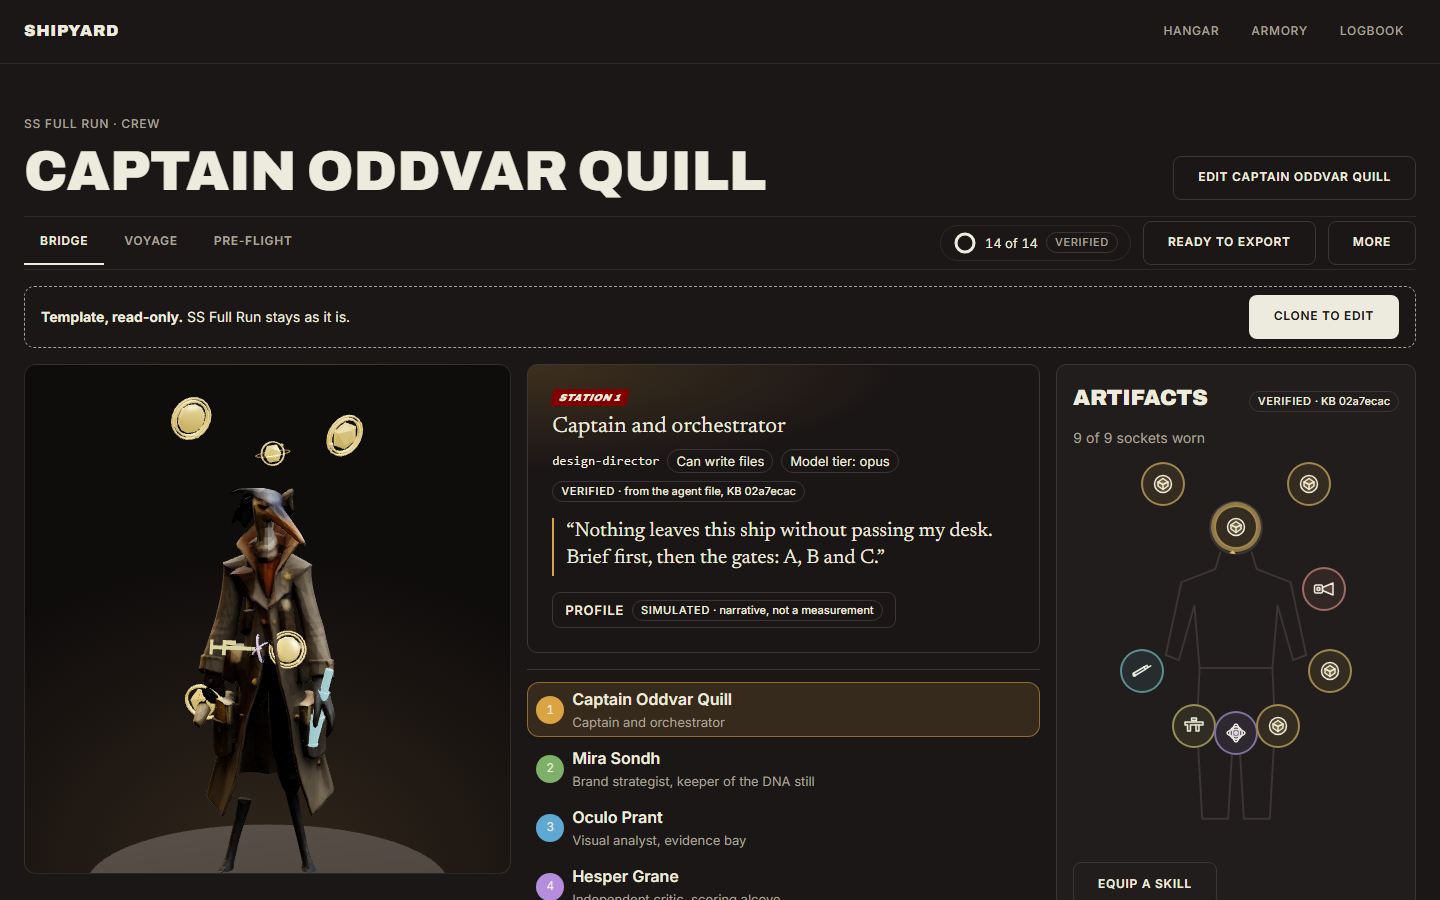
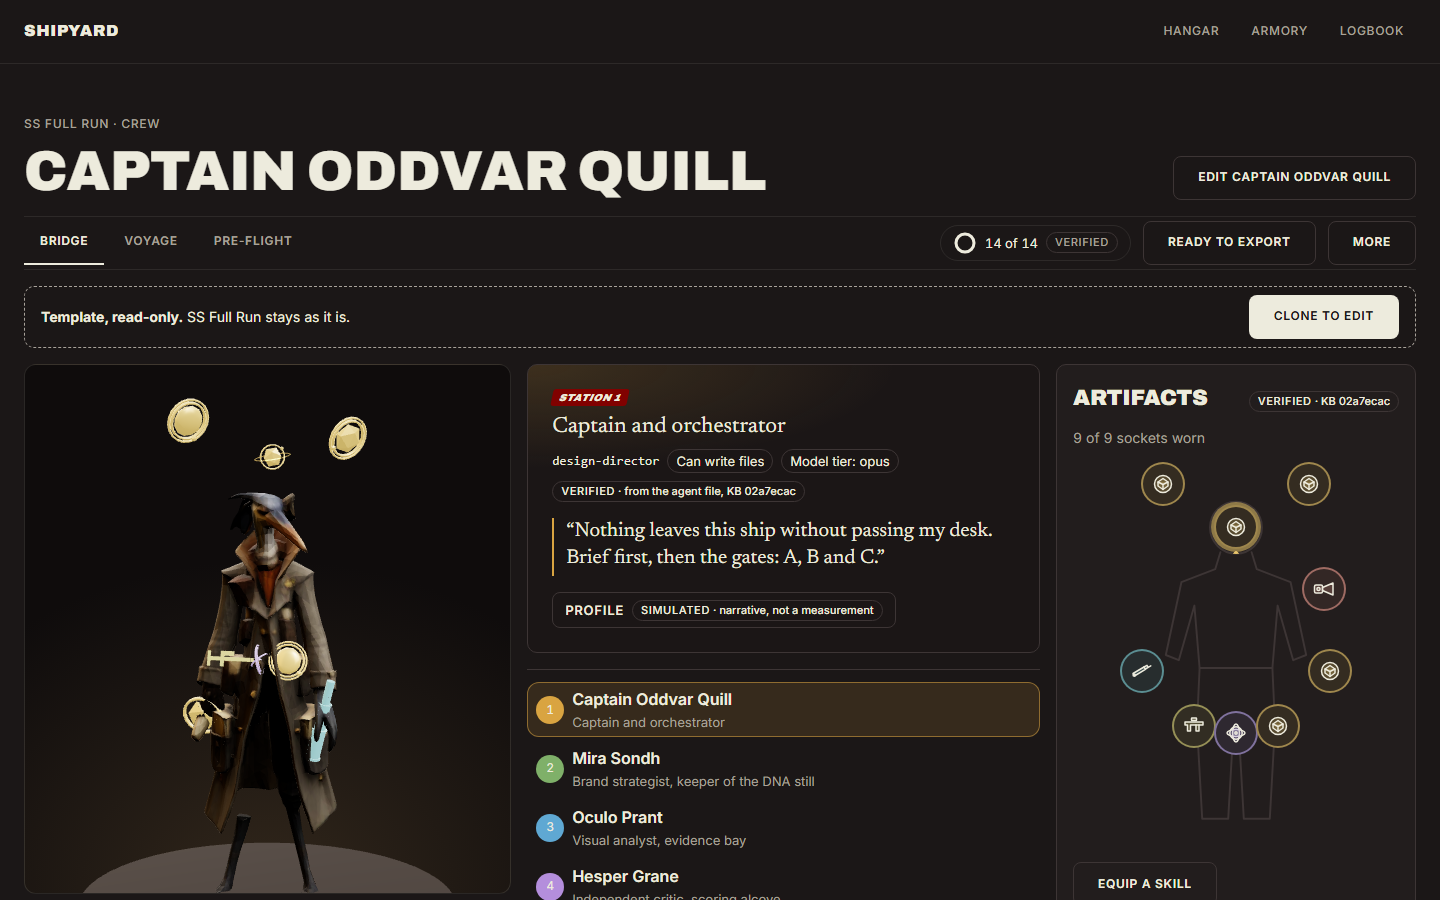
Shipyard T16 fix: turntable clamp 100svh-370 keeps the >520px stage and the feet above the fold

Changed region(s): [[0.0625, 0.4667, 0.3125, 0.9956], [0.0938, 0.4356, 0.1562, 0.4978]]

diff --git a/shipyard/src/styles/ship.css b/shipyard/src/styles/ship.css
@@ -33,7 +33,7 @@
   aspect-ratio: 4 / 5;
   width: 100%;
   /* the feet stay above the fold at 1440×900 (critic residue): the stage shortens; the figure is framed by height, so it stays whole */
-  max-height: max(380px, calc(100svh - 390px));
+  max-height: max(380px, calc(100svh - 370px));
   border-radius: 12px;
   background: radial-gradient(120% 90% at 50% 100%, color-mix(in oklab, var(--c, #3a2f2b) 18%, #141010) 0%, #0f0c0c 70%);
   border: 1px solid color-mix(in oklab, currentColor 12%, transparent);

diff --git a/shipyard/PROGRESS-AND-DECISIONS.md b/shipyard/PROGRESS-AND-DECISIONS.md
@@ -375,7 +375,7 @@ The v1 open items n1 and n3–n5 move into T16; n2 moves into T24 (A1).
   - it lifts after a 1.5 s grace when the loader never reports work;
   - at 8 s it offers **Enter without 3D** (the bridge) or **Retry**.
 - **Residues:**
-  - the turntable is clamped to `max(380px, 100svh − 390px)`, so the feet and plinth show at
+  - the turntable is clamped to `max(380px, 100svh − 370px)`, so the feet and plinth show at
     1440×900;
   - a back rim light and a lifted hemisphere ground colour on the turntable;
   - `scroll-padding-bottom: 72px` on the phone waypoint card (WCAG 2.4.11);
